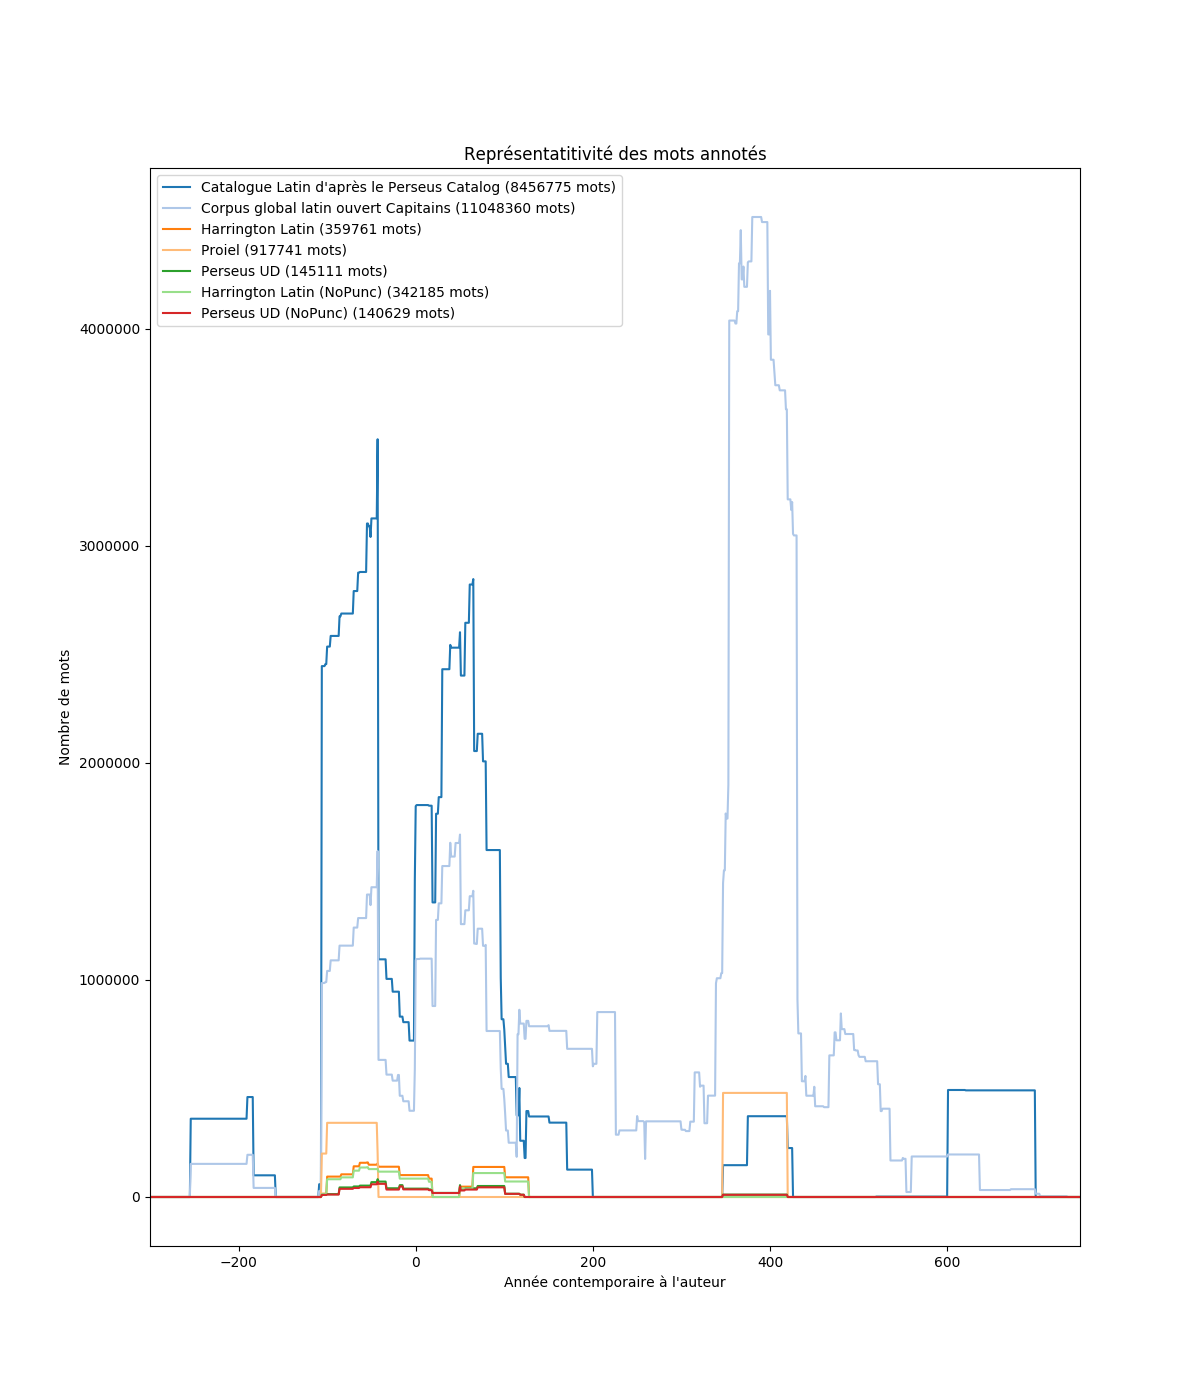
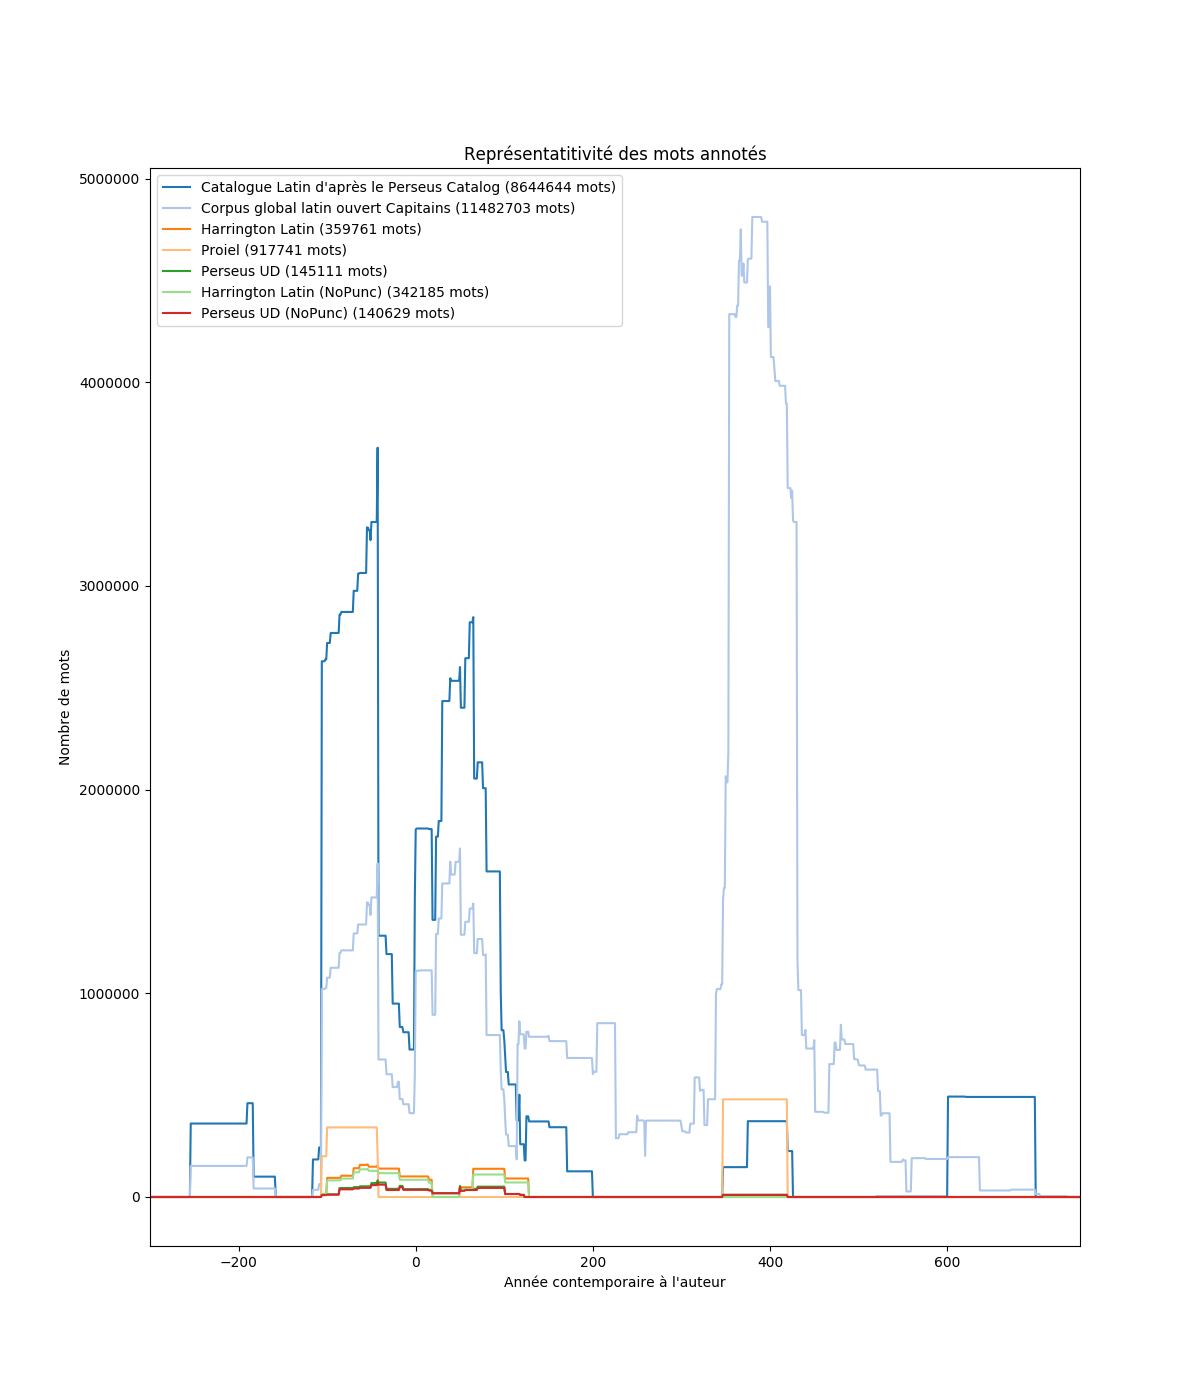
Analysis rerun

diff --git a/analysis/general_analysis/corpus_analysis.py b/analysis/general_analysis/corpus_analysis.py
@@ -207,9 +207,15 @@ def authors_annex(graph, texts_dict):
             }
         reversed_authors[author]["ids"].append(tg)
         reversed_authors[author]["texts"].append(ed_id)
-        reversed_authors[author]["passages"].append(len(texts_dict[ed_id]))
-        reversed_authors[author]["tokens"].append(sum(texts_dict[ed_id]))
-        reversed_authors[author]["tokens_notflat"] += texts_dict[ed_id]
+        if ed_id in texts_dict:
+            reversed_authors[author]["passages"].append(len(texts_dict[ed_id]))
+            reversed_authors[author]["tokens"].append(sum(texts_dict[ed_id]))
+            reversed_authors[author]["tokens_notflat"] += texts_dict[ed_id]
+        else:
+            reversed_authors[author]["passages"].append(0)
+            reversed_authors[author]["tokens"].append(0)
+            reversed_authors[author]["tokens_notflat"] += [0]
+
     with open("results/analysis/corpus_analysis/authors.tsv", "w") as f:
         f.write("\t".join(["Auteur", "Nombre de textes", "Nombre de passages", "Nombre de mots", "Médiane de taille de passage", "Moyenne de taille de passage"])+"\n")
         for aname in sorted(list(reversed_authors.keys())):
@@ -235,18 +241,22 @@ def run():
 
     # And the list of texts as a dictionary of text: text_length
     texts = get_texts()
-
+    print("Texts retrieved")
     # And the list of texts as a dictionary of text: text_length
     texts_dict = get_text_length_dict(texts)
+    print("Texts lengths retrieved")
 
     # Run time analysis
     accumulated_tokens, tokens_per_year, text_per_year = time_analysis(graph, texts_dict)
+    print("Texts time analysis done")
 
     # Passage Size Analysis
     passages_repartition = passage_size_analysis(texts_dict)
+    print("Passage repartition analysis done")
 
     # Generation of annexes
     authors_annexes = authors_annex(graph, texts_dict)
+    print("Annexes d'auteur construites")
 
 
 if __name__ == "__main__":

diff --git a/results/analysis/treebank_analysis/treebank_Perseus UD.md b/results/analysis/treebank_analysis/treebank_Perseus UD.md
@@ -1,14 +1,14 @@
 | Documents                                                        | Tokens     |
 | --                                                               | --         |
-| urn:cts:greekLit:tlg0031.tlg027.perseus-lat2                     | 2001       |
-| urn:cts:latinLit:phi0448.phi001.perseus-lat2                     | 352        |
 | urn:cts:latinLit:phi1221.phi007.perseus-lat2                     | 708        |
-| urn:cts:latinLit:phi1351.phi005.perseus-lat2                     | 866        |
-| urn:cts:latinLit:phi0690.phi003.perseus-lat2                     | 776        |
-| urn:cts:latinLit:phi0975.phi001.perseus-lat2                     | 4116       |
-| urn:cts:latinLit:phi0972.phi001.perseus-lat2                     | 5949       |
 | urn:cts:latinLit:phi1348.abo012.perseus-lat2                     | 2046       |
+| urn:cts:latinLit:phi0972.phi001.perseus-lat2                     | 5949       |
+| urn:cts:latinLit:phi0620.phi001.perseus-lat2                     | 2776       |
+| urn:cts:latinLit:phi1351.phi005.perseus-lat2                     | 866        |
+| urn:cts:greekLit:tlg0031.tlg027.perseus-lat2                     | 2001       |
+| urn:cts:latinLit:phi0975.phi001.perseus-lat2                     | 4116       |
+| urn:cts:latinLit:phi0690.phi003.perseus-lat2                     | 776        |
+| urn:cts:latinLit:phi0631.phi001.perseus-lat2                     | 4999       |
+| urn:cts:latinLit:phi0448.phi001.perseus-lat2                     | 352        |
 | urn:cts:latinLit:phi0959.phi006.perseus-lat2                     | 2652       |
 | urn:cts:latinLit:phi0474.phi013.perseus-lat2                     | 1897       |
-| urn:cts:latinLit:phi0620.phi001.perseus-lat2                     | 2776       |
-| urn:cts:latinLit:phi0631.phi001.perseus-lat2                     | 4999       |

diff --git a/results/analysis/treebank_analysis/treebank_Harrington Latin.md b/results/analysis/treebank_analysis/treebank_Harrington Latin.md
@@ -1,13 +1,13 @@
 | Documents                                                        | Tokens     |
 | --                                                               | --         |
+| urn:cts:latinLit:phi1221.phi007.perseus-lat2                     | 2970       |
+| urn:cts:latinLit:phi0474.phi024.perseus-lat2                     | 1756       |
+| urn:cts:latinLit:phi0690.phi003.perseus-lat2                     | 7307       |
 | urn:cts:latinLit:phi0972.phi001.perseus-lat2                     | 9190       |
-| urn:cts:latinLit:phi1276.phi001.perseus-lat2                     | 17265      |
 | urn:cts:latinLit:phi0448.phi001.perseus-lat2                     | 15017      |
 | urn:cts:latinLit:phi0959.phi001.perseus-lat2                     | 3897       |
-| urn:cts:latinLit:phi1221.phi007.perseus-lat2                     | 2970       |
-| urn:cts:latinLit:phi0472.phi001.perseus-lat2                     | 2137       |
-| urn:cts:latinLit:phi0690.phi003.perseus-lat2                     | 7307       |
 | urn:cts:latinLit:phi0959.phi006.perseus-lat2                     | 13018      |
-| urn:cts:latinLit:phi0660.phi003.perseus-lat2                     | 313        |
-| urn:cts:latinLit:phi0474.phi024.perseus-lat2                     | 1756       |
 | urn:cts:latinLit:phi0474.phi013.perseus-lat2                     | 1241       |
+| urn:cts:latinLit:phi1276.phi001.perseus-lat2                     | 17265      |
+| urn:cts:latinLit:phi0472.phi001.perseus-lat2                     | 2137       |
+| urn:cts:latinLit:phi0660.phi003.perseus-lat2                     | 313        |

diff --git a/results/analysis/treebank_analysis/treebank_Proiel.md b/results/analysis/treebank_analysis/treebank_Proiel.md
@@ -1,5 +1,5 @@
 | Documents                                                        | Tokens     |
 | --                                                               | --         |
-| urn:cts:latinLit:phi0474.phi057.perseus-lat2                     | 40454      |
 | urn:cts:greekLit:tlg0031.tlg001.perseus-lat2                     | 103703     |
 | urn:cts:latinLit:phi0448.phi001.perseus-lat2                     | 27402      |
+| urn:cts:latinLit:phi0474.phi057.perseus-lat2                     | 40454      |
